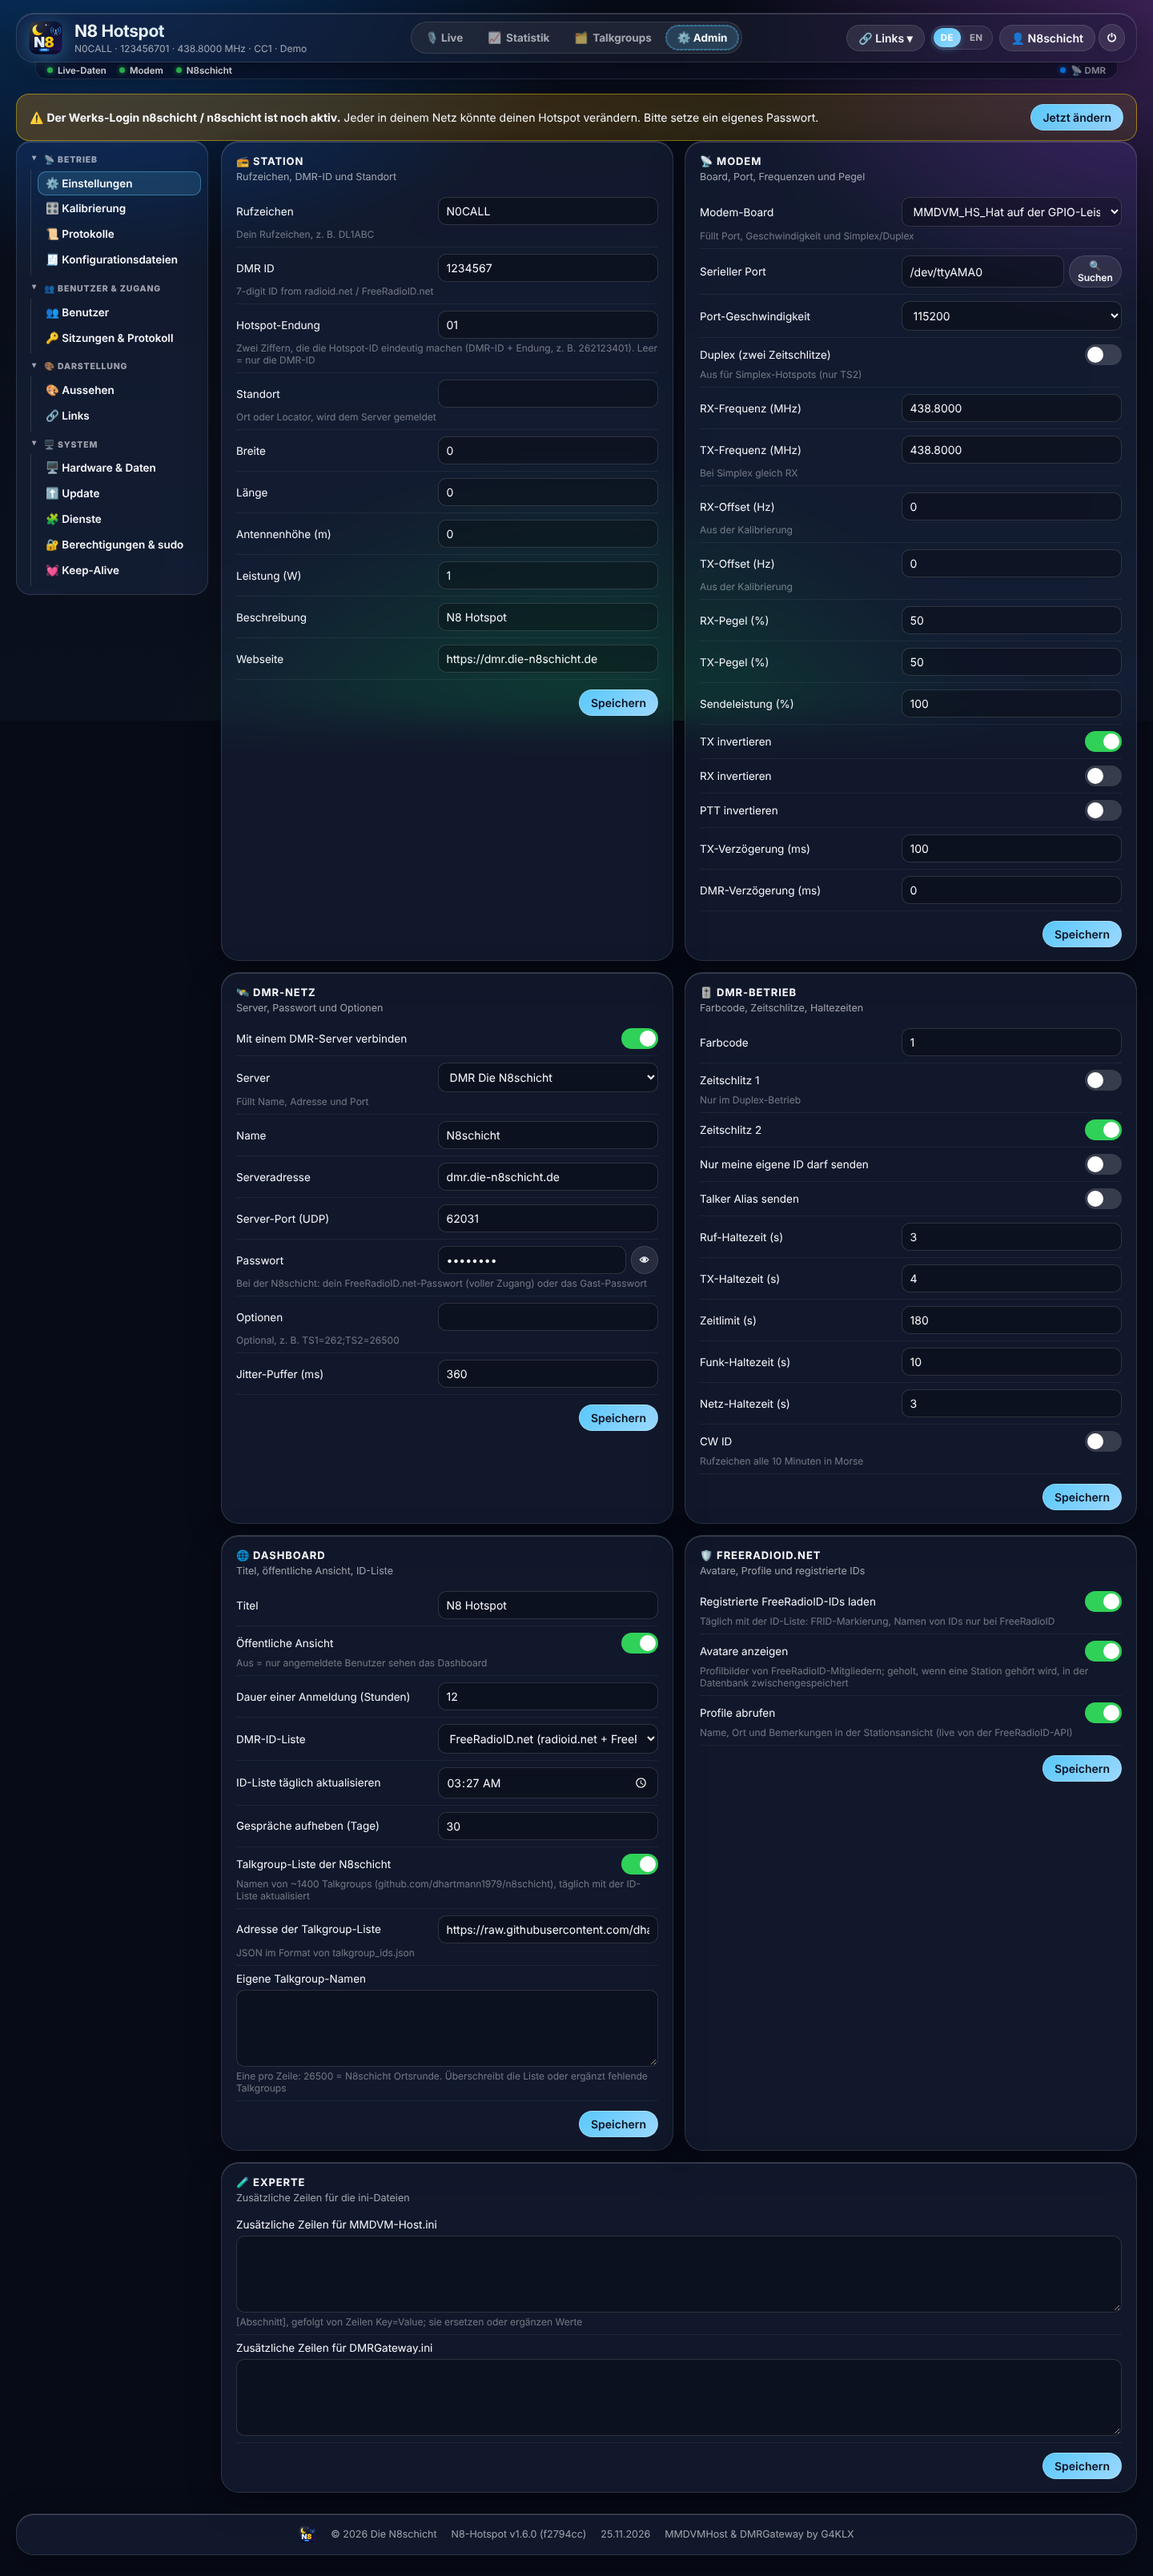
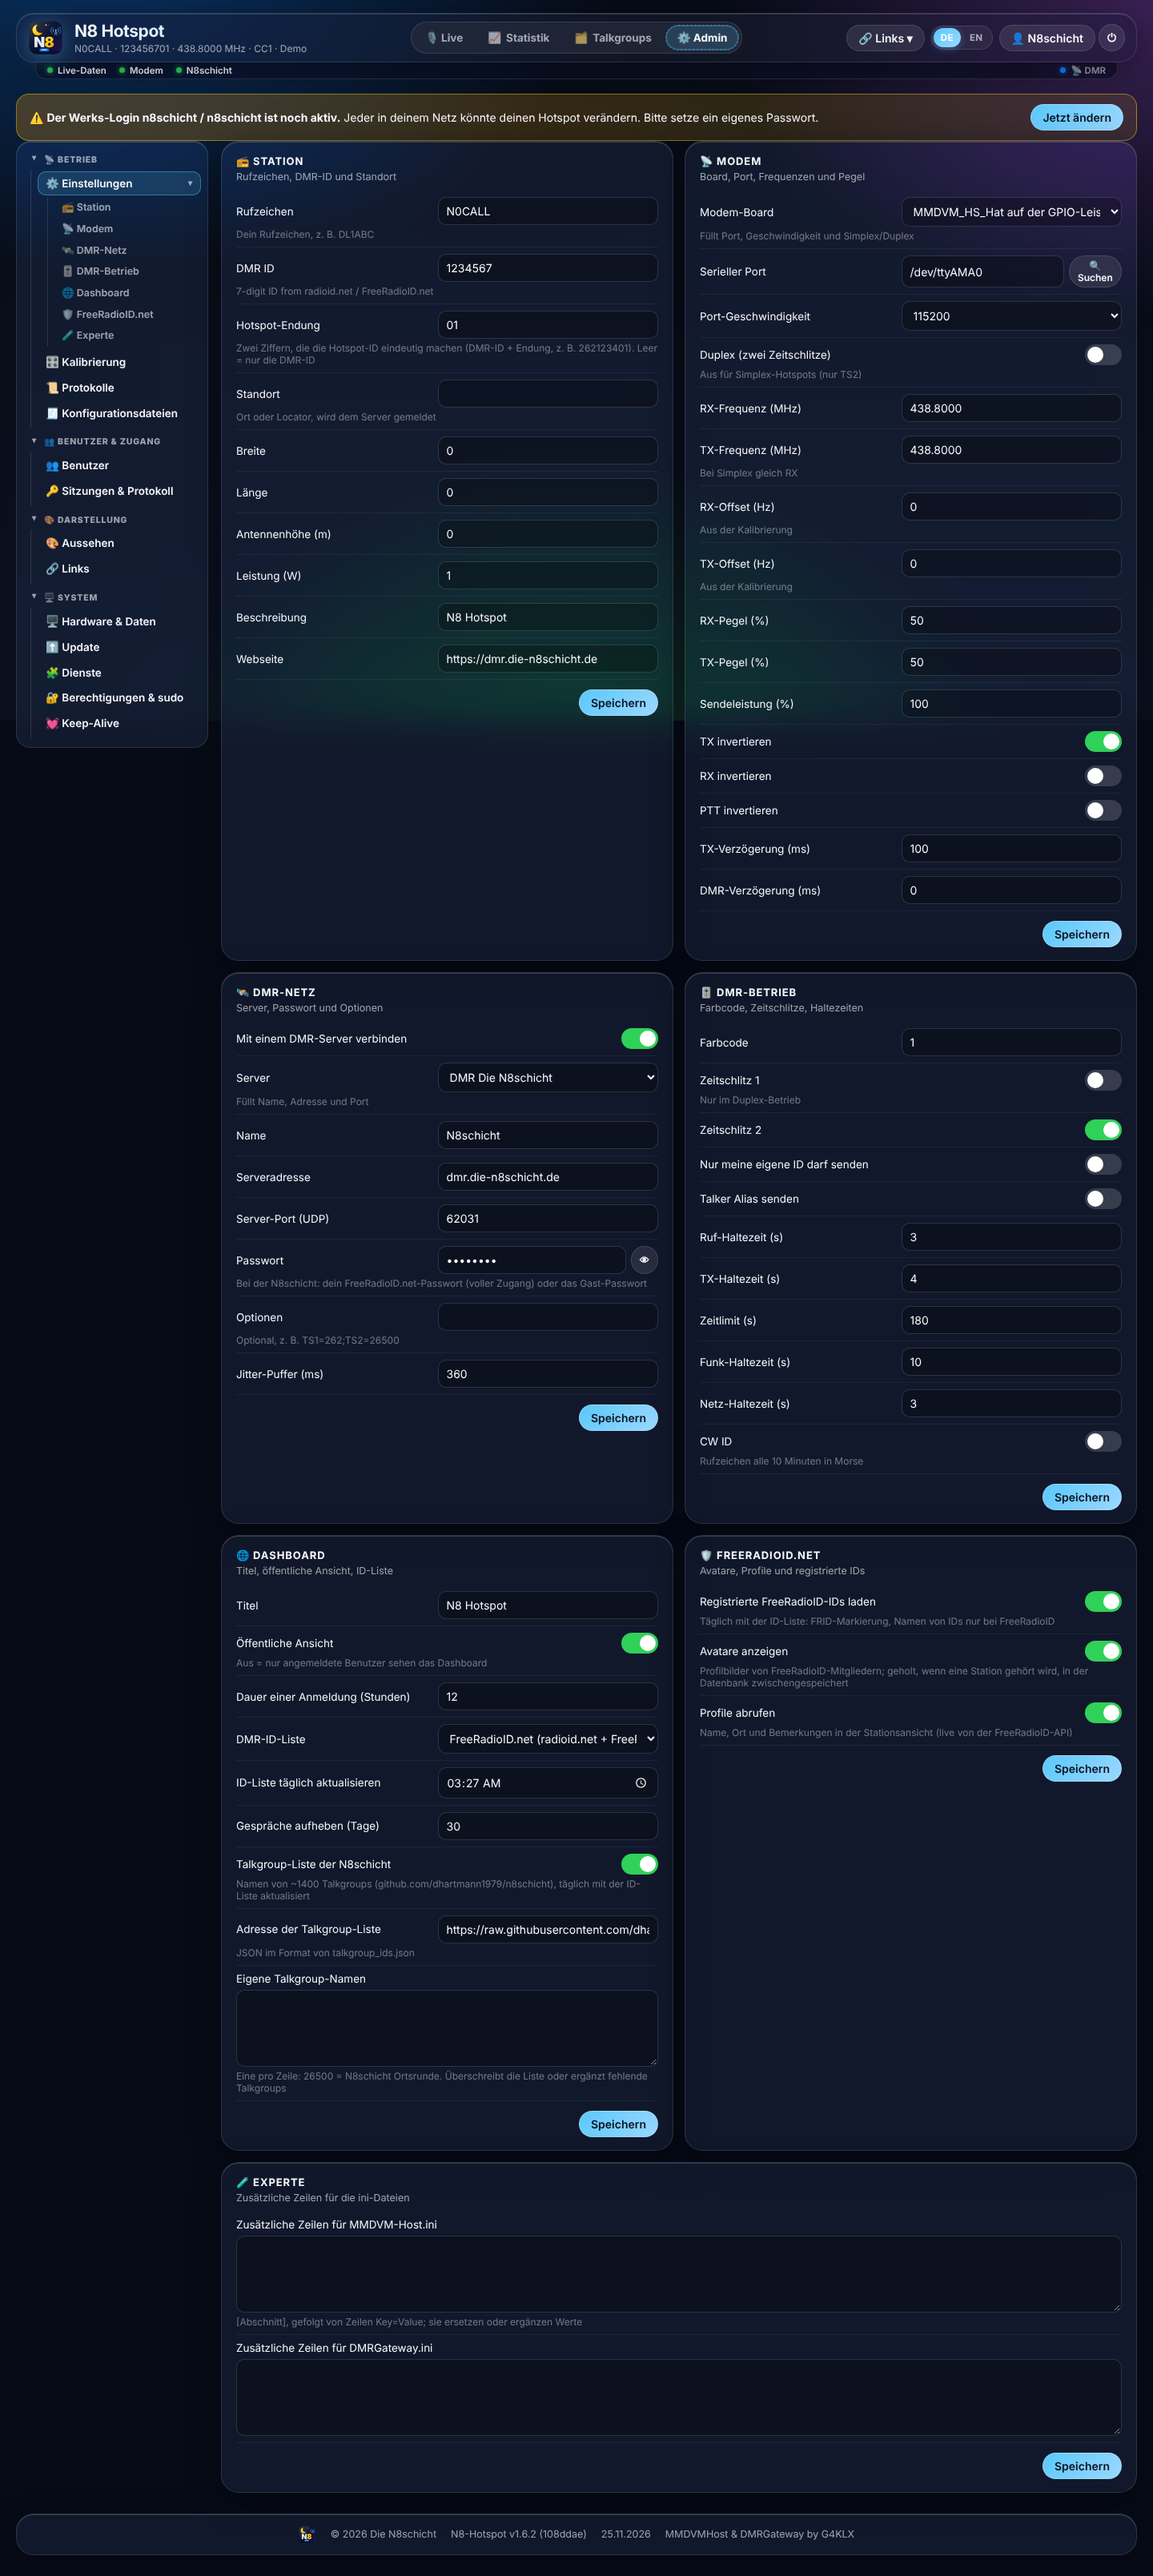
Admin: frühere Unter-Menüs als Zweige im Baum-Menü, Backup mit eigenem Eintrag (ADN)
N8 Kit: Einträge im Baum können Zweige haben. HBlink4: Einstellungen, DMR-Server und APRS mit ihren Abschnitten;
N8 Hotspot und ADN: Abschnitte der Einstellungen. Doku und Screenshots angepasst, Einzelheiten in CHANGELOG.md.

Claude-Session: https://claude.ai/code/session_01J5RG2nh5KG4yZP2DtuvZ9u

Changed region(s): [[0.0312, 0.0622, 0.1562, 0.2798]]

diff --git a/docs/de/adminbereich.md b/docs/de/adminbereich.md
@@ -13,12 +13,12 @@ mit denselben Gruppen in derselben Reihenfolge:
 
 | Gruppe | Einträge beim Hotspot |
 |---|---|
-| 📡 **Betrieb** | ⚙ Einstellungen · 🎛 Kalibrierung · 📜 Protokolle · 🧾 Konfigurationsdateien |
+| 📡 **Betrieb** | ⚙ Einstellungen (Zweige: Station, Modem, DMR-Netz, DMR-Betrieb, Dashboard, FreeRadioID.net, Experte) · 🎛 Kalibrierung · 📜 Protokolle · 🧾 Konfigurationsdateien |
 | 👥 **Benutzer & Zugang** | 👥 Benutzer · 🔑 Sitzungen & Protokoll |
 | 🎨 **Darstellung** | 🎨 Aussehen · 🔗 Links |
 | 🖥 **System** | 🖥 Hardware & Daten · ⬆ Update · 🧩 Dienste · 🔐 Berechtigungen & sudo · 💓 Keep-Alive |
 
-Gruppen klappen per Klick auf und zu (der Browser merkt sich das). Auf dem Handy wird das Menü zu einer Leiste
+Gruppen klappen per Klick auf und zu (der Browser merkt sich das). Seit 1.6.2 hängen die Abschnitte der Einstellungen als Zweige darunter – ein Zweig zeigt nur diesen Abschnitt in voller Breite. Auf dem Handy wird das Menü zu einer Leiste
 „☰ *aktueller Bereich*“, die sich aufklappen lässt. Kacheln einer Reihe sind gleich hoch, die Knöpfe stehen unten bündig.
 
 <p align="center"><img src="../images/admin-mobile-menu.png" alt="Menü auf dem Handy" width="32%"></p>

diff --git a/CHANGELOG.md b/CHANGELOG.md
@@ -4,6 +4,13 @@ Alle Versionen von **N8-Hotspot** (DMR Die N8schicht), die neueste oben.
 Die Nummern folgen [Semantic Versioning](https://semver.org/lang/de/): `MAJOR.MINOR.PATCH`.
 Wie Versionen und Updates funktionieren, steht in [docs/de/updates.md](docs/de/updates.md).
 
+## [1.6.2] – 2026-11-25
+
+### 🧭 Frühere Unter-Menüs im Baum-Menü
+- **⚙ Einstellungen** hat jetzt Zweige im Baum: 📻 Station · 📡 Modem · DMR-Netz · DMR-Betrieb · Dashboard · FreeRadioID.net · Experte.
+  Ein Klick auf einen Zweig zeigt nur diesen Abschnitt in voller Breite, „Einstellungen“ selbst zeigt wie bisher alle.
+- N8 Kit: Einträge im Baum können Zweige haben (`children`); sie klappen mit ihrem Eintrag auf und zu.
+
 ## [1.6.1] – 2026-11-25
 
 ### 🐛 Fix: Keep-Alive startete einen gesunden Dienst neu („Antwort ist kein JSON“)
